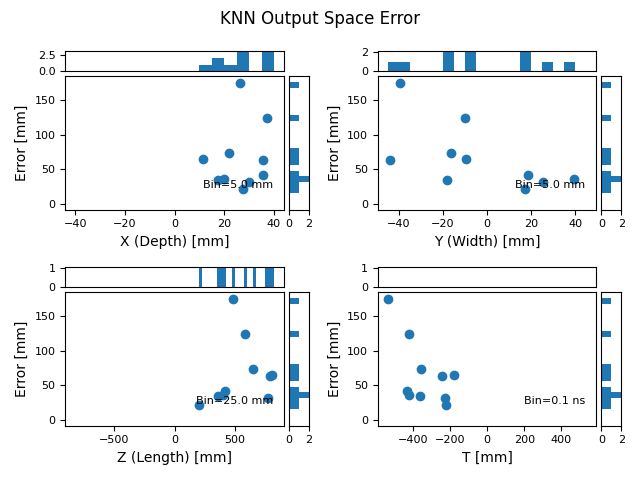
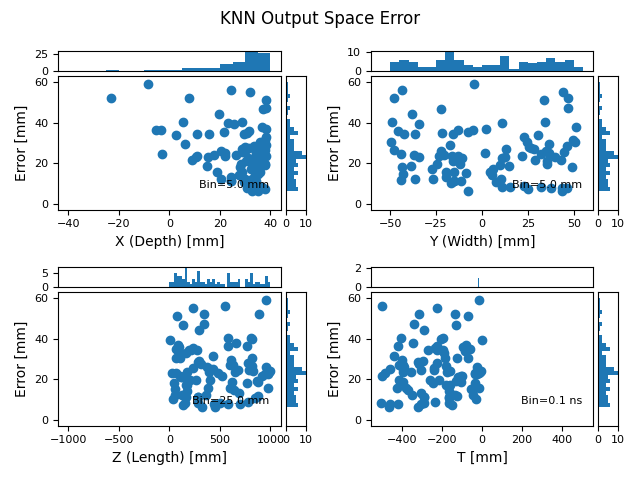
pca KNN

diff --git a/tools/ML/ML_detRes_KNN.py b/tools/ML/ML_detRes_KNN.py
@@ -17,12 +17,16 @@ beta2 = 0.999 #ADAM
 #Preprocessing:
 with open(ML_PATH+'ML_detRes_preProcess.py') as f: exec(f.read()) # helper file # preprocessing
 inputTensor,expectedTensor = MLDRESpreprocess(photoLen)
+if("PCA" in MLOPT):
+	PATH_OPT=PATH_OPT+"PCA"
+	print(":OPTIONS- ",PATH_OPT)
+	with open(ML_PATH+'ML_PCA.py') as f: exec(f.read()) # helper file # PATH and vis
 #-------------------------------------------------------
 length = inputTensor.shape[0]
 frac = 0.75
 splitList = [int(length*frac),length - int(length*frac)]
-initK = 1#4
-finalK = 2#80
+initK = 5#4
+finalK = 6#80
 stepK = 1
 veclen = int((finalK+stepK-initK)/stepK)
 #n = int(length/folds)
@@ -162,32 +166,36 @@ if(KVIS=="VIS"):
 	kvis(knn_neighbors)
 elif(KVIS=="ERR"):
 	kerr(knn_neighbors)
-else:
-	if(DRES_Train):
-		rmseP = torch.zeros((veclen,4,epochs))
-		pltx = np.zeros((veclen,4,epochs))
-		nk=0
-		for uik in np.arange(initK,finalK,stepK):
-			drnet.setK(uik)
-			for jk in range(epochs):
-				listset = list(range(length))
-				random.shuffle(listset)
-				dataInd,testInd = torch.split(torch.tensor(listset),splitList)
-				dataTensorX = inputTensor[dataInd]
-				inptTensor = inputTensor[testInd]
-				dataTensorY = expectedTensor[dataInd]
-				expectTensor = expectedTensor[testInd]
-				#dataTensorX,dataTensorY,inputTensor,expectTensor
-				out,outs = drnet(dataTensorX,dataTensorY,inptTensor)
-				rmseP[nk,:,jk] = torch.from_numpy(ml_detRes_vis_knn(out,expectTensor,uik,noplt=False))
-				ml_detRes_vis(out,expectTensor,uik)
-				pltx[nk,:,jk] = [uik]*4
-			nk=nk+1
-		ml_detRes_vis_knn2(pltx,rmseP) #optimal number plot
-	else:
-		with multiprocessing.Pool(processes=8,maxtasksperchild=1000) as pool:
-			lise = list(tqdm(pool.map(knntest,np.arange(initK,finalK,stepK)),total=veclen))
-		print("DONE")
+elif(KVIS=="OPTNUM"):
+	rmseP = torch.zeros((veclen,4,epochs))
+	pltx = np.zeros((veclen,4,epochs))
+	nk=0
+	for uik in np.arange(initK,finalK,stepK):
+		drnet.setK(uik)
+		for jk in range(epochs):
+			listset = list(range(length))
+			random.shuffle(listset)
+			dataInd,testInd = torch.split(torch.tensor(listset),splitList)
+			dataTensorX = inputTensor[dataInd]
+			inptTensor = inputTensor[testInd]
+			dataTensorY = expectedTensor[dataInd]
+			expectTensor = expectedTensor[testInd]
+			#dataTensorX,dataTensorY,inputTensor,expectTensor
+			out,outs = drnet(dataTensorX,dataTensorY,inptTensor)
+			rmseP[nk,:,jk] = torch.from_numpy(ml_detRes_vis_knn(out,expectTensor,uik,noplt=False))
+			ml_detRes_vis(out,expectTensor,uik)
+			pltx[nk,:,jk] = [uik]*4
+		nk=nk+1
+	ml_detRes_vis_knn2(pltx,rmseP) #optimal number plot
+elif(KVIS=="RUN"):
+	print("RUN")
+	with multiprocessing.Pool(processes=8) as pool:
+		lise = list(tqdm(pool.map(knntest,np.arange(initK,finalK,stepK)),total=veclen))
+	print("DONE")
+elif(KVIS=="RUNONE"):
+	print("RUN")
+	knntest(knn_neighbors)
+	print("DONE")
 
 #-------------------------------------------------------
 #with open(ML_PATH+'ML_detRes_LOOP.py') as f: exec(f.read()) # helper file # training loop

diff --git a/tools/ML/ML_detRes.py b/tools/ML/ML_detRes.py
@@ -52,9 +52,7 @@ def marginalPLT2(ax,x,y,i):
 	ax_histy = divider.append_axes("right", 0.2, pad=0.05, sharey=ax)
 	# now determine nice limits by hand:
 	binwidth = binList[i]
-	xmax = np.max(np.abs(x))
-	lim = (int(xmax/binwidth) + 1)*binwidth
-	bins = np.arange(-lim, lim + binwidth, binwidth)
+	bins = np.arange(int(LM[i,0]), int(LM[i,1])+ binwidth, binwidth)
 	binzy = 20
 	ymax = np.max(np.abs(y))
 	binwidthy = int(ymax/binzy)
@@ -118,12 +116,12 @@ def ml_detRes_vis(inpT,expT,pl):
 	
 	if(KNN):
 		plt.suptitle("MLKNN (K="+str(pl)+") - Det. Res. Predicted vs Actual")
-		plt.savefig(str(ML_PATH)+"/Models/detRes_training_KNN_"+str(pl)+".png",dpi=600)
+		plt.savefig(str(ML_PATH)+"/Models/detRes_training_KNN_"+str(pl)+PATH_OPT+".png",dpi=600)
 		#plt.show()
 		plt.close()
 	else:
 		plt.suptitle("MLCNN - Det. Res. Predicted vs Actual")
-		plt.savefig(str(ML_PATH)+"/Models/detRes_training_CNN_"+str(photoLen)+".png",dpi=600)
+		plt.savefig(str(ML_PATH)+"/Models/detRes_training_CNN_"+str(photoLen)+PATH_OPT+".png",dpi=600)
 		#plt.show()
 		plt.close()
 
@@ -195,11 +193,11 @@ def ml_detRes_vis2(inpT,expT,pl):
 
 	if(KNN):
 		plt.suptitle("MLKNN (K="+str(pl)+") - Det. Res. Predicted vs Actual")
-		plt.savefig(str(ML_PATH)+"/Models/detRes_Predictions_KNN_"+str(pl)+"_.png",bbox_inches='tight',dpi=600)
+		plt.savefig(str(ML_PATH)+"/Models/detRes_Predictions_KNN_"+str(pl)+"_"+PATH_OPT+".png",bbox_inches='tight',dpi=600)
 		plt.show()
 	else:
 		plt.suptitle("MLCNN - Det. Res. Predicted vs Actual")
-		plt.savefig(str(ML_PATH)+"/Models/detRes_Predictions_CNN_"+str(pl)+".png",bbox_inches='tight',dpi=600)
+		plt.savefig(str(ML_PATH)+"/Models/detRes_Predictions_CNN_"+str(pl)+"."+PATH_OPT+"png",bbox_inches='tight',dpi=600)
 		plt.show()
 
 def ml_detRes_vis_knn(inpT,expT,uik,noplt):
@@ -265,7 +263,7 @@ def ml_detRes_vis_knn(inpT,expT,uik,noplt):
 				marginalPLT(ax,x,y,i)
 
 		plt.suptitle("MLKNN (K="+str(uik)+") - Det. Res. Predicted vs Actual")
-		plt.savefig(str(ML_PATH)+"/Models/detRes_Predictions_KNN_"+str(uik)+"_.png",bbox_inches='tight',dpi=600)
+		plt.savefig(str(ML_PATH)+"/Models/detRes_Predictions_KNN_"+str(uik)+"_"+PATH_OPT+".png",bbox_inches='tight',dpi=600)
 		plt.close()
 		return rmseL
 		#plt.show()
@@ -278,5 +276,5 @@ def ml_detRes_vis_knn2(pltx,rmseP):
 		ax.set_xlabel("k-neighbors")
 		ax.set_ylabel("RMSE in "+typeList[i])
 	plt.suptitle("KNN RMSE by K-value - optimal # of neighbors")
-	plt.savefig(str(ML_PATH)+"/Models/detRes_KNN_OptimalNeighbors.png")
+	plt.savefig(str(ML_PATH)+"/Models/detRes_KNN_OptimalNeighbors"+PATH_OPT+".png")
 	plt.close()

diff --git a/tools/ML/ML_PCA.py b/tools/ML/ML_PCA.py
@@ -1,0 +1,58 @@
+# inputTensor,expectedTensor
+
+#flatten vectors
+flatinput = torch.flatten(inputTensor,start_dim=1)
+#print(inputTensor.shape)
+#print(flatinput.shape)
+#print(flatinput[0])
+#standardize -------------------------------------------------------
+meaninput = torch.mean(flatinput,dim=0)
+#print(meaninput.shape)
+stdinput = torch.std(flatinput,dim=0)
+#print(stdinput.shape)
+#workaround for Z-values:
+d = int(len(meaninput)/4)
+meaninput[(2*d):(3*d)] = (meaninput[2*d] + meaninput[3*d])/2
+stdinput[(2*d):(3*d)] = meaninput[(2*d):(3*d)]
+#----
+standardinput = (flatinput-meaninput)/stdinput
+#covariance --------------------------------------------------------
+cov = torch.tensor(np.cov(standardinput,y=None,rowvar=False),dtype=torch.float32)
+#mahalanobis
+ts = torch.transpose(standardinput,0,1)
+mahalanobis = torch.diagonal(torch.sqrt(torch.chain_matmul(standardinput,torch.pinverse(cov),ts)))
+print(mahalanobis.shape)
+#eigensystem
+eigenval, eigenvect = torch.eig(cov,eigenvectors=True)
+# pca
+pcainput = torch.matmul(standardinput,eigenvect)
+pcacov = np.cov(pcainput,y=None,rowvar=False)
+
+#
+OLDinput = inputTensor
+inputTensor = torch.reshape(pcainput, inputTensor.shape)
+
+fig,ax =plt.subplots(nrows=1,ncols=3,figsize=(15,5),constrained_layout=True)
+cmap = "cool"
+#[ax[0,i].set_aspect(1.) for i in range(4)]
+ax[0].set_title("Covariance Matrix")
+ax[0].set_xlabel("X--Y--Z--T")
+ax[0].set_ylabel("T--Z--Y--X")
+ax[1].set_title("High Leverage Points")
+ax[1].set_xlabel("mahalanobis")
+ax[1].set_ylabel("index")
+ax[2].set_title("Covariance Matrix post-PCA")
+ax[2].set_xlabel("X--Y--Z--T")
+ax[2].set_ylabel("T--Z--Y--X")
+
+covplot=ax[0].matshow(cov,cmap=cmap)
+fig.colorbar(covplot,ax = ax[0])
+
+ax[1].scatter(mahalanobis,range(len(mahalanobis)))
+
+covplot=ax[2].matshow(pcacov,cmap=cmap)
+fig.colorbar(covplot,ax = ax[2])
+#plt.show()
+plt.suptitle("DetRes PCA")
+plt.savefig(str(ML_PATH)+"/Models/detRes_"+PATH_OPT+".png")
+plt.close()

diff --git a/analyze.py b/analyze.py
@@ -12,6 +12,7 @@ import matplotlib.colors as mpt_col
 from matplotlib.colors import ListedColormap,LinearSegmentedColormap
 import matplotlib.cm as cm
 import matplotlib.markers as mk
+import matplotlib.ticker as mticker
 from functools import lru_cache
 from scipy import stats
 from scipy.optimize import curve_fit
@@ -36,7 +37,7 @@ else:
 	MaxEventLimit = True
 #------------------------------------------------------------------------------------
 #MaxEventLimit = True #manual override
-MaxEvents = 40#int(input("Number of Events:"))
+MaxEvents = 80#int(input("Number of Events:"))
 #--------------------------
 #Defining Flags:
 STRIPHIST = False
@@ -55,13 +56,14 @@ SiPMtimeRES = False
 SiPMtimeVSatt = False 
 SiPMtimePOSRES = False #multilateration style x,y,z positioning for visualization?.
 ML_DRES = True #(turn off SiPMTime_Based_Reconstruction)
-DRES_Train = False #Train or Test/VIS?
+DRES_Train = True #Train or Test/VIS?
 #---CNN
 warmstart=True # warmstart the CNN
 #---KNN
-KNN = True #using KNN OR CNN ?
-KVIS = "ERR" #options "False" "ERR" "VIS" #nearest neighbor output visualization?
-knn_neighbors = 5 #set value
+KNN = True #using KNN OR CNN ? 
+MLOPT = ["PCA"] #options "PCA"
+KVIS = "RUNONE" #options "RUN" "OPTNUM" "ERR" "VIS" #nearest neighbor output visualization?
+knn_neighbors = 4 #set value
 #---------------
 POSRES = False
 RES_ADD = False #additional resolution plots

diff --git a/tools/ML/ML.py b/tools/ML/ML.py
@@ -43,3 +43,5 @@ def dataNotWithinLimits(post):
 			#print("f", LM[i,0],LM[i,1])
 			return True
 	return False
+#-------------------------------------------------------
+PATH_OPT=""
